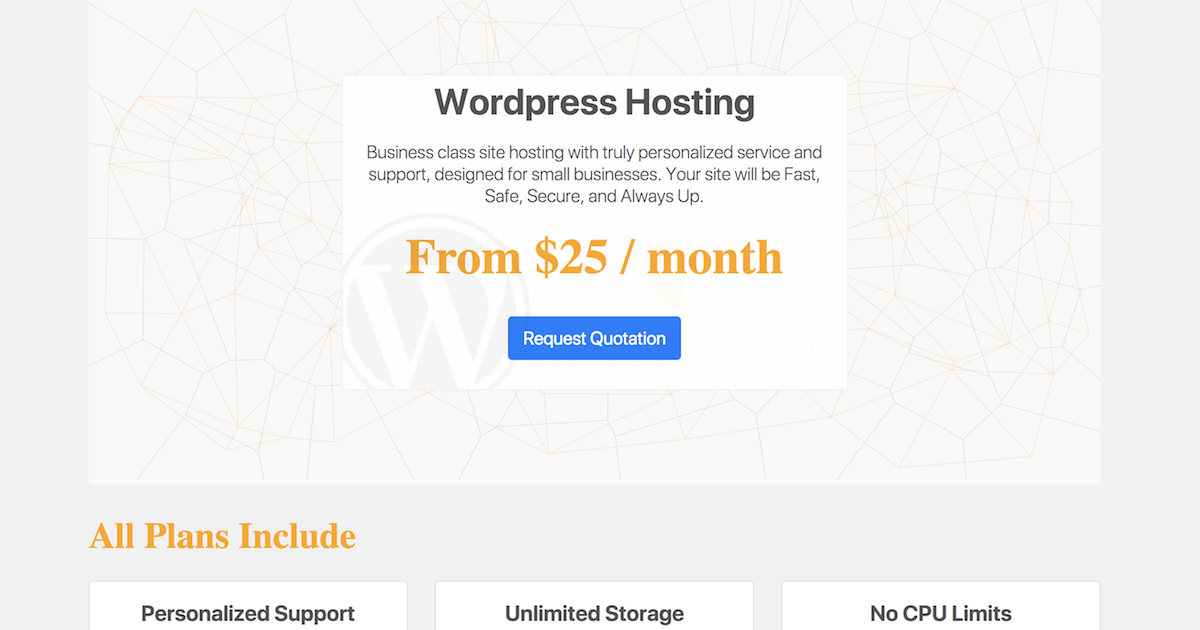
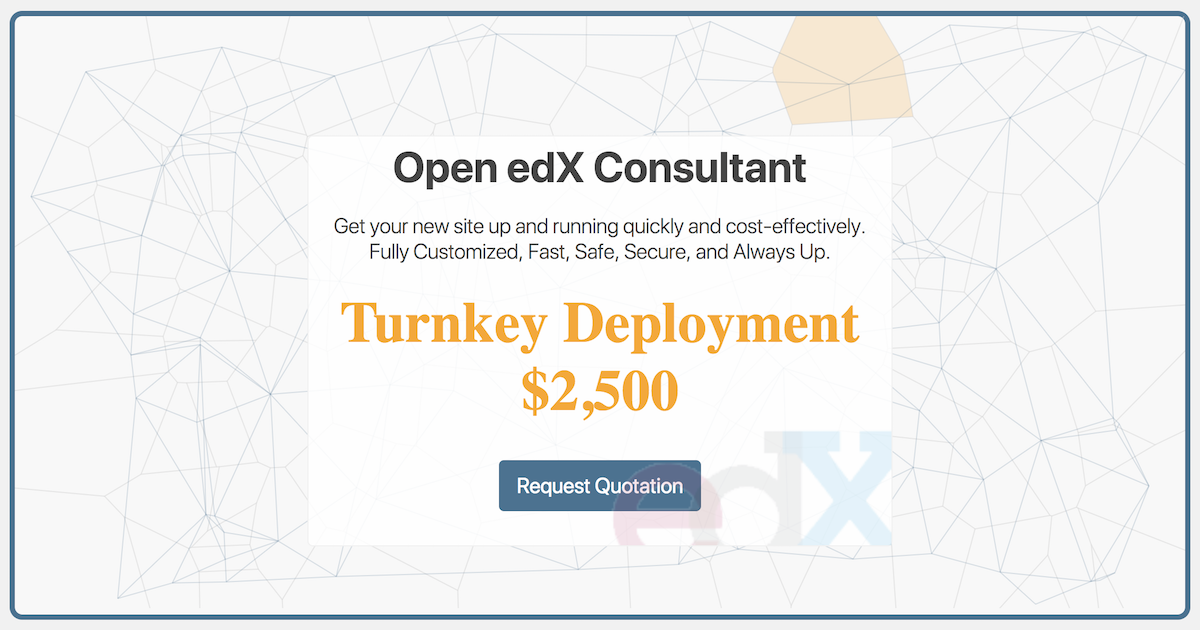
site v1.00

diff --git a/index.html b/index.html
@@ -13,45 +13,32 @@
                   Insanely cool animated graphics by D3 | Mike Bostock
                   Bistering speed assisted in no small measure by Amazon Web Services
     -->
-    <title>Wordpress Hosting</title>
+    <title>Open edX Consultant</title>
     <meta charset="utf-8">
     <meta name="author" content="Lawrence McDaniel">
     <meta name="keywords" content="Open edX Consulting">
     <meta name="description" content="Freelance Open edX consultant with personalized service and support">
     <meta name="viewport" content="width=device-width, initial-scale=1, shrink-to-fit=no">
 
-    <meta property="og:url"                content="https://wordpress.lawrencemcdaniel.com" />
+    <meta property="og:url"                content="https://edx.lawrencemcdaniel.com" />
     <meta property="og:type"               content="website" />
     <meta property="og:title"              content="Open edX Consulting" />
     <meta property="og:description"        content="Get your new Open edX site up and running quickly and cost-effectively." />
-    <meta property="og:image"              content="https://edx.lawrencemcdaniel.com/images/facebook-share3.png" />
+    <meta property="og:image"              content="https://edx.lawrencemcdaniel.com/images/facebook-share.png" />
 
     <link rel="stylesheet" href="https://maxcdn.bootstrapcdn.com/bootstrap/4.0.0-beta.2/css/bootstrap.min.css" integrity="sha384-PsH8R72JQ3SOdhVi3uxftmaW6Vc51MKb0q5P2rRUpPvrszuE4W1povHYgTpBfshb" crossorigin="anonymous">
     <link rel="stylesheet" href="https://fonts.googleapis.com/icon?family=Material+Icons" type="text/css">
     <link rel="stylesheet" href="css/app.css" type="text/css">
-    <link rel="shortcut icon" href="images/wordpress-logo-small.png">
+    <link rel="shortcut icon" href="images/edx_logo.png">
 
-    <script async src="https://www.googletagmanager.com/gtag/js?id=AW-832584829"></script>
+    <!-- Global site tag (gtag.js) - Google Analytics -->
+    <script async src="https://www.googletagmanager.com/gtag/js?id=UA-112528615-1"></script>
     <script>
       window.dataLayer = window.dataLayer || [];
       function gtag(){dataLayer.push(arguments);}
       gtag('js', new Date());
-      gtag('config', 'AW-832584829');
-    </script>
-    <script>
-    function gtag_report_conversion(url) {
-      console.log('gtag_report_conversion() called for url: ', url, typeof(url));
-      var callback = function () {
-        if (typeof(url) != 'undefined') {
-          window.location = url;
-        }
-      };
-      gtag('event', 'conversion', {
-          'send_to': 'AW-832584829/8P9LCJjF3XoQ_fiAjQM',
-          'event_callback': callback
-      });
-      return false;
-    }
+
+      gtag('config', 'UA-112528615-1');
     </script>
   </head>
   <body>
@@ -74,7 +61,7 @@
             <a class="nav-link" href="#premium-services">Premium</a>
           </li>
           <li class="nav-item">
-            <a class="nav-link" href="#plans">Plans</a>
+            <a class="nav-link" href="#portfolio">Portfolio</a>
           </li>
           <li class="nav-item">
             <a class="nav-link" href="#contact">Contact</a>
@@ -90,10 +77,10 @@
         <div class="jumbotron p-0 relative-anchor home-jumbotron">
           <div class="heading">
             <div class="centered display-3 text-center relative-anchor">
-              <img class="wordpress-logo" src="images/wordpress-clipped.png" alt="Wordpress logo watermark">
+              <img class="edx-logo" src="images/edx_logo-cropped.png" alt="Open edX logo">
               <h1 class="p-1">Open edX Consultant<h1>
-              <p class="lead p-2">Freelance Open edX consultant. Get your new Open edX site up and running quickly and cost-effectively. Personalized service and support, perfect for small institutions. Your site will be Customized, Fast, Safe, Secure, and Always Up.</p>
-              <h3 class="">Complete Builds For As Little as $1,500</h3>
+              <p class="lead p-2">Get your new site up and running quickly and cost-effectively. Fully Customized, Fast, Safe, Secure, and Always Up.</p>
+              <h3 class="">Turnkey Deployment $2,500</h3>
 
               <p class="lead text-center">
                 <a class="cta btn btn-primary btn-lg mt-4 mb-3" href="/contact/index.html" role="button">Request Quotation</a>
@@ -189,13 +176,28 @@
           <div class="col-lg-6 col-md-12 mb-3">
             <div class="card box-shadow relative-anchor premium-service">
               <div class="card-body">
-                <h4 class="card-title">Administration & Support</h4>
+                <h4 class="card-title">Administration</h4>
                 <hr />
                 <p class="card-text">I can provide administative and technical support to your faculty members for a fraction of the cost of a full-time IT employee.</p>
               </div>
               <div class="premium-service-icon">
                 <div class="premium-service-icon-centered">
-                  <i class="material-icons md-lg md-blue-light">cloud_upload</i>
+                  <i class="material-icons md-lg md-blue-light">build</i>
+                </div>
+              </div>
+            </div>
+          </div>
+
+          <div class="col-lg-6 col-md-12 mb-3">
+            <div class="card box-shadow relative-anchor premium-service">
+              <div class="card-body">
+                <h4 class="card-title">Mobile App</h4>
+                <hr />
+                <p class="card-text">Support your learners with your own branded Open edX native mobile apps for iOS and Android. I will build your app and deploy it to the Apple App store and Google Playstore.</p>
+              </div>
+              <div class="premium-service-icon">
+                <div class="premium-service-icon-centered">
+                  <i class="material-icons md-lg md-blue-light">android</i>
                 </div>
               </div>
             </div>
@@ -233,14 +235,65 @@
         </div> <!-- Premium Services - row text-center -->
       </section>  <!-- Premium Services -->
 
+    <section  id="portfolio">  <!-- Portfolio -->
+      <h2>Portfolio</h2>
+      <div class="row text-center">
+        <div class="col-lg-6 col-md-12 mb-3">
+          <div class="card box-shadow relative-anchor premium-service">
+            <div class="card-body">
+              <h4 class="card-title">IT Valle de Etla</h4>
+              <hr />
+              <a href="https://edx.itvalletla.edu.mx/" target="_blank"><img class="portfolio-image" src="images/valletla.png"/></a>
+            </div>
+          </div>
+        </div>
+        <div class="col-lg-6 col-md-12 mb-3">
+          <div class="card box-shadow relative-anchor premium-service">
+            <div class="card-body">
+              <h4 class="card-title">Netec Digital</h4>
+              <hr />
+              <a href="http://edx.netecdigital.com/" target="_blank"><img class="portfolio-image" src="images/netec.png"/></a>
+            </div>
+          </div>
+        </div>
+        <div class="col-lg-6 col-md-12 mb-3">
+          <div class="card box-shadow relative-anchor premium-service">
+            <div class="card-body">
+              <h4 class="card-title">Fundación Banorte</h4>
+              <hr />
+              <a href="https://educacion.atentamente.mx/" target="_blank"><img class="portfolio-image" src="images/atentamente.png"/></a>
+            </div>
+          </div>
+        </div>
+        <div class="col-lg-6 col-md-12 mb-3">
+          <div class="card box-shadow relative-anchor premium-service">
+            <div class="card-body">
+              <h4 class="card-title">Cursos.enlinea.in</h4>
+              <hr />
+              <a href="https://cursos.enlinea.in/" target="_blank"><img class="portfolio-image" src="images/enlinea.in.png"/></a>
+            </div>
+          </div>
+        </div>
+        <div class="col-lg-6 col-md-12 mb-3">
+          <div class="card box-shadow relative-anchor premium-service">
+            <div class="card-body">
+              <h4 class="card-title">EdMex</h4>
+              <hr />
+              <a href="https://edmex.org/" target="_blank"><img class="portfolio-image" src="images/edmex.png"/></a>
+            </div>
+          </div>
+        </div>
 
+      </div>  <!-- row -->
+
+    </section>  <!-- Portfolio -->
 
       <section id="contact">
         <div class="row contact jumbotron p-4 box-shadow" style="background-color: white;">
           <div class="col-sm-12 col-md-3 contact-left">
           </div>
           <div class="col-sm-12 col-md-9 contact-right float-right">
-            <p>I'm Lawrence McDaniel, I am a 20-year veteran web developer and cloud computing expert specializing in deploying the Open edX platform for small public and private learning institutions. I'm available to my customers around the clock. I provide personalized service and fast response to my small but very satisfied customer portfolio of small business owners around North America. All of my customers have my personal cell phone number and can reach me any time by voice, whatsapp or email.</p>
+            <p>I'm Lawrence McDaniel, a 20-year veteran web developer and cloud computing expert specializing in deploying the Open edX platform for small public and private learning institutions. I'm available to my customers around the clock. I provide personalized service and fast response to my very satisfied customers located around all of North America. All of my customers have my personal cell phone number and can reach me any time by voice, whatsapp or email.</p>
             <hr />
 
             <ul>
@@ -250,6 +303,9 @@
             </ul>
 
             <h4 class="text-center"><strong>Then please contact me!</strong></h4>
+            <p class="lead text-center">
+              <a class="cta btn btn-primary btn-lg mt-4 mb-3" href="/contact/index.html" role="button">Request Quotation</a>
+            </p>
 
           </div>
         </div>  <!-- row -->
@@ -269,18 +325,5 @@
     <script src="https://maxcdn.bootstrapcdn.com/bootstrap/4.0.0-beta.2/js/bootstrap.min.js" integrity="sha384-alpBpkh1PFOepccYVYDB4do5UnbKysX5WZXm3XxPqe5iKTfUKjNkCk9SaVuEZflJ" crossorigin="anonymous"></script>
     <script src="https://d3js.org/d3.v4.min.js"></script>
     <script src="js/d3-voronoi-tessellation.js"></script>
-    <script async src="https://www.googletagmanager.com/gtag/js?id=UA-111283184-1"></script>
-    <script>
-      window.dataLayer = window.dataLayer || [];
-      function gtag(){dataLayer.push(arguments);}
-      gtag('js', new Date());
-
-      gtag('config', 'UA-111283184-1');
-    </script>
-    <script>
-    $('.cta').on('click', function(event) {
-      gtag_report_conversion();
-    });
-    </script>
   </body>
 </html>

diff --git a/contact/index.html b/contact/index.html
@@ -13,25 +13,34 @@
                   Insanely cool animated graphics by D3 | Mike Bostock
                   Bistering speed assisted in no small measure by Amazon Web Services
     -->
-    <title>Wordpress Hosting</title>
+    <title>Open edX Consultant</title>
     <meta charset="utf-8">
     <meta name="author" content="Lawrence McDaniel">
-    <meta name="keywords" content="Wordpress Hosting">
-    <meta name="description" content="Business class Wordpress Hosting with personalized service and support">
+    <meta name="keywords" content="Open edX Consulting">
+    <meta name="description" content="Freelance Open edX consultant with personalized service and support">
     <meta name="viewport" content="width=device-width, initial-scale=1, shrink-to-fit=no">
 
     <meta property="og:url"                content="https://wordpress.lawrencemcdaniel.com" />
     <meta property="og:type"               content="website" />
-    <meta property="og:title"              content="Wordpress Hosting" />
-    <meta property="og:description"        content="Provide a safe, secure and consistently performant user experience for your customers with Business Class Wordpress Hosting. Incredible value, with personalized service and support, starting at only $25 per month." />
-    <meta property="og:image"              content="https://wordpress.lawrencemcdaniel.com/images/facebook-share3.png" />
+    <meta property="og:title"              content="Open edX Consulting" />
+    <meta property="og:description"        content="Get your new Open edX site up and running quickly and cost-effectively." />
+    <meta property="og:image"              content="https://edx.lawrencemcdaniel.com/images/facebook-share3.png" />
 
     <link rel="stylesheet" href="https://maxcdn.bootstrapcdn.com/bootstrap/4.0.0-beta.2/css/bootstrap.min.css" integrity="sha384-PsH8R72JQ3SOdhVi3uxftmaW6Vc51MKb0q5P2rRUpPvrszuE4W1povHYgTpBfshb" crossorigin="anonymous">
     <link rel="stylesheet" href="https://fonts.googleapis.com/icon?family=Material+Icons" type="text/css">
     <link rel="stylesheet" href="../css/app.css" type="text/css">
     <link rel="stylesheet" href="../css/contact.css" type="text/css">
-    <link rel="shortcut icon" href="../images/wordpress-logo-small.png">
+    <link rel="shortcut icon" href="../images/edx_logo.png">
 
+    <!-- Global site tag (gtag.js) - Google Analytics -->
+    <script async src="https://www.googletagmanager.com/gtag/js?id=UA-112528615-1"></script>
+    <script>
+      window.dataLayer = window.dataLayer || [];
+      function gtag(){dataLayer.push(arguments);}
+      gtag('js', new Date());
+
+      gtag('config', 'UA-112528615-1');
+    </script>
   </head>
   <body>
     <!-- Begin Navigation -->
@@ -53,7 +62,7 @@
             <a class="nav-link" href="/#premium-services">Premium</a>
           </li>
           <li class="nav-item">
-            <a class="nav-link" href="/#plans">Plans</a>
+            <a class="nav-link" href="#portfolio">Portfolio</a>
           </li>
           <li class="nav-item">
             <a class="nav-link" href="/#contact">Contact</a>
@@ -74,7 +83,7 @@
           </div>
           <div class="col-sm-12 col-md-8 contact-right float-right">
             <h2 class="text-center"><strong>Thank You!</strong></h2>
-            <p class="">I look forward to learning how I can help you. Please call me directly or send me a message with a brief description of your <strong>Wordpress Hosting</strong> needs and I will respond to you promptly.</p>
+            <p class="">I look forward to learning how I can help you. Please call me directly or send me a message with a brief description of your <strong>Open edX</strong> platform needs and I will respond to you promptly.</p>
 
             <table class="table table-condensed" style="width: 50%; margin: auto; margin-top: 25px; margin-bottom: 25px;">
               <tbody>
@@ -114,13 +123,6 @@
     <script src="https://code.jquery.com/jquery-3.2.1.slim.min.js" integrity="sha384-KJ3o2DKtIkvYIK3UENzmM7KCkRr/rE9/Qpg6aAZGJwFDMVNA/GpGFF93hXpG5KkN" crossorigin="anonymous"></script>
     <script src="https://cdnjs.cloudflare.com/ajax/libs/popper.js/1.12.3/umd/popper.min.js" integrity="sha384-vFJXuSJphROIrBnz7yo7oB41mKfc8JzQZiCq4NCceLEaO4IHwicKwpJf9c9IpFgh" crossorigin="anonymous"></script>
     <script src="https://maxcdn.bootstrapcdn.com/bootstrap/4.0.0-beta.2/js/bootstrap.min.js" integrity="sha384-alpBpkh1PFOepccYVYDB4do5UnbKysX5WZXm3XxPqe5iKTfUKjNkCk9SaVuEZflJ" crossorigin="anonymous"></script>
-    <script async src="https://www.googletagmanager.com/gtag/js?id=UA-111283184-1"></script>
     <script type="text/javascript" src="https://platform.linkedin.com/badges/js/profile.js" async defer></script>
-    <script>
-      window.dataLayer = window.dataLayer || [];
-      function gtag(){dataLayer.push(arguments);}
-      gtag('js', new Date());
-      gtag('config', 'UA-111283184-1');
-    </script>
   </body>
 </html>

diff --git a/css/app.css b/css/app.css
@@ -81,11 +81,12 @@ footer a:hover {
   position: relative;
 }
 
-.wordpress-logo {
+.edx-logo {
   position: absolute;
   bottom: 0;
-  left: 0;
-  opacity: 0.05;
+  righty: 0;
+  opacity: 0.15;
+  width: 50%;
   overflow: hidden;
 }
 
@@ -209,6 +210,10 @@ footer a:hover {
 
 /* End - Plans Section  */
 
+/* Portfolio */
+.portfolio-image {
+  width: 100%;
+}
 
 /* Contact Section  */
 .contact {
@@ -273,13 +278,16 @@ footer a:hover {
 
 
 /* ------------------ Material design icons -----------------------*/
+.material-icons {
+  margin-top: 15px;
+}
 /* Rules for sizing the icon. */
 .material-icons.md-1em { font-size: 1em; }
 .material-icons.md-18 { font-size: 18px; }
 .material-icons.md-24 { font-size: 24px; }
 .material-icons.md-36 { font-size: 36px; }
 .material-icons.md-48 { font-size: 48px; }
-.material-icons.md-lg { font-size: 250px; }
+.material-icons.md-lg { font-size: 200px; }
 
 /* Rules for using icons as black on a light background. */
 .material-icons.md-dark { color: rgba(0, 0, 0, 0.54); }
